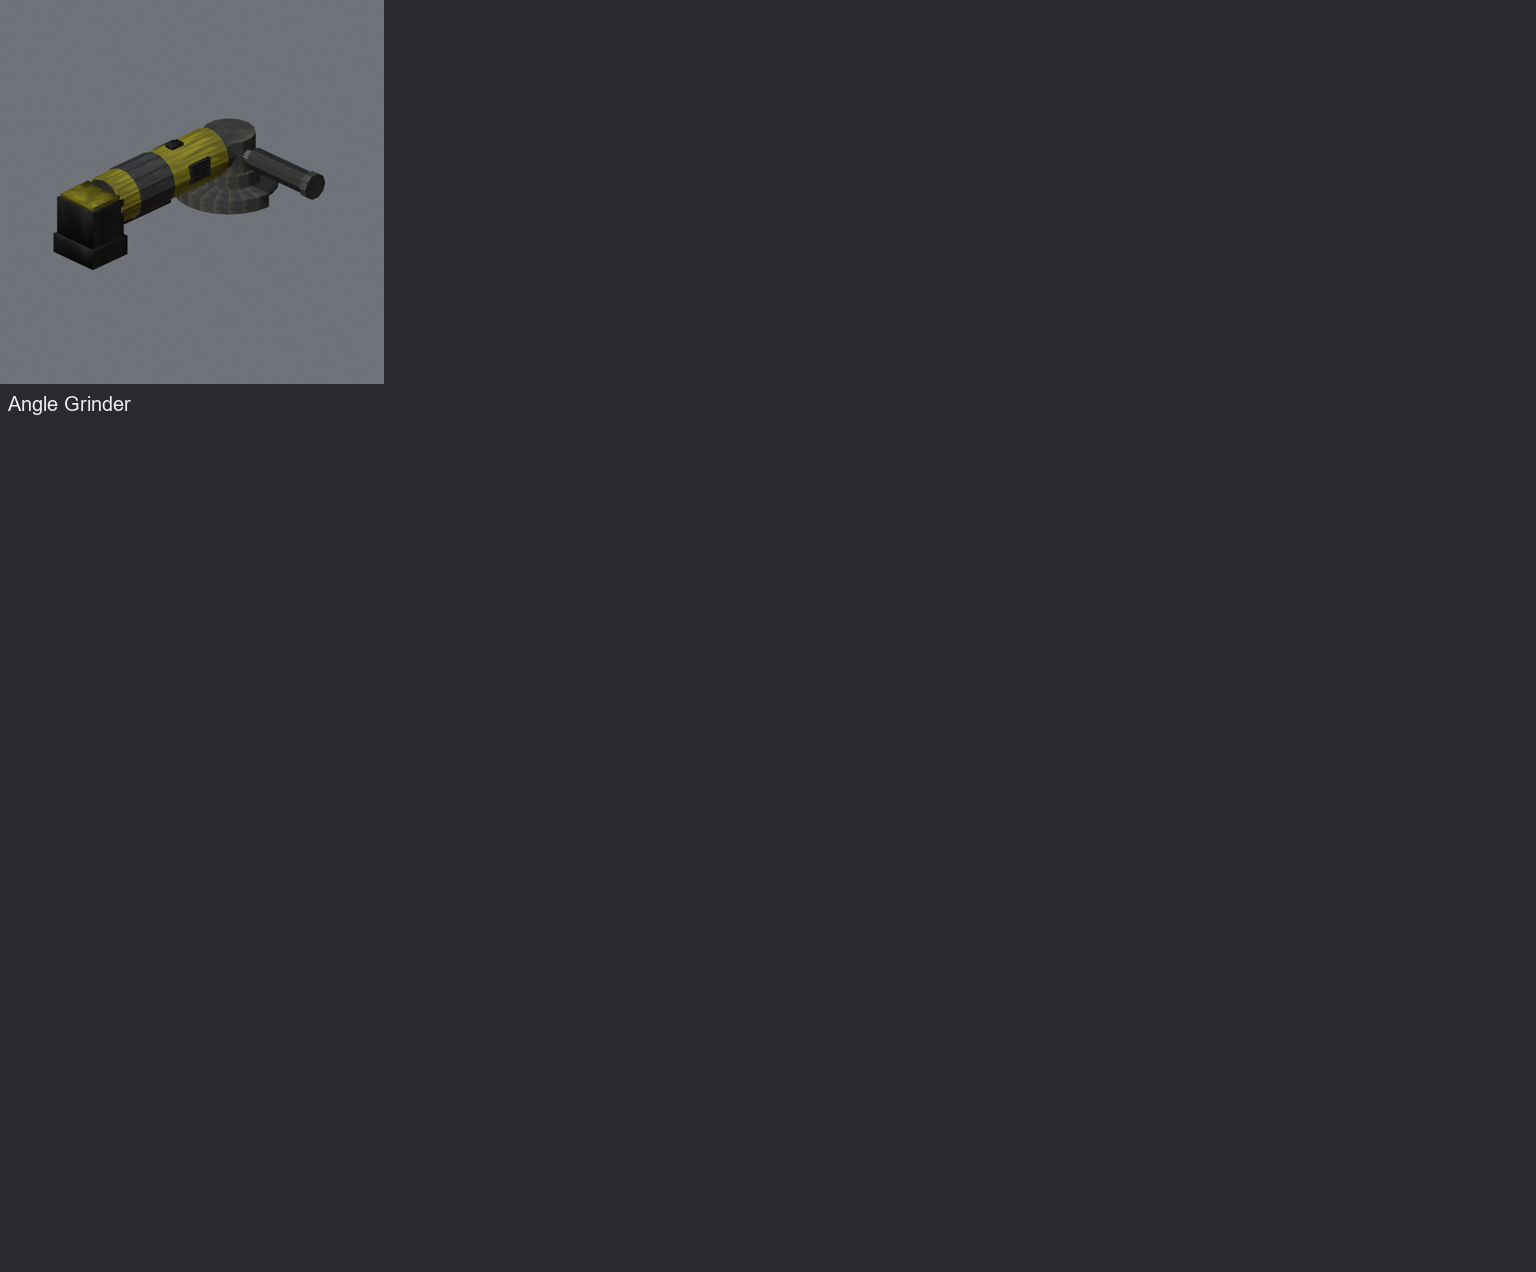
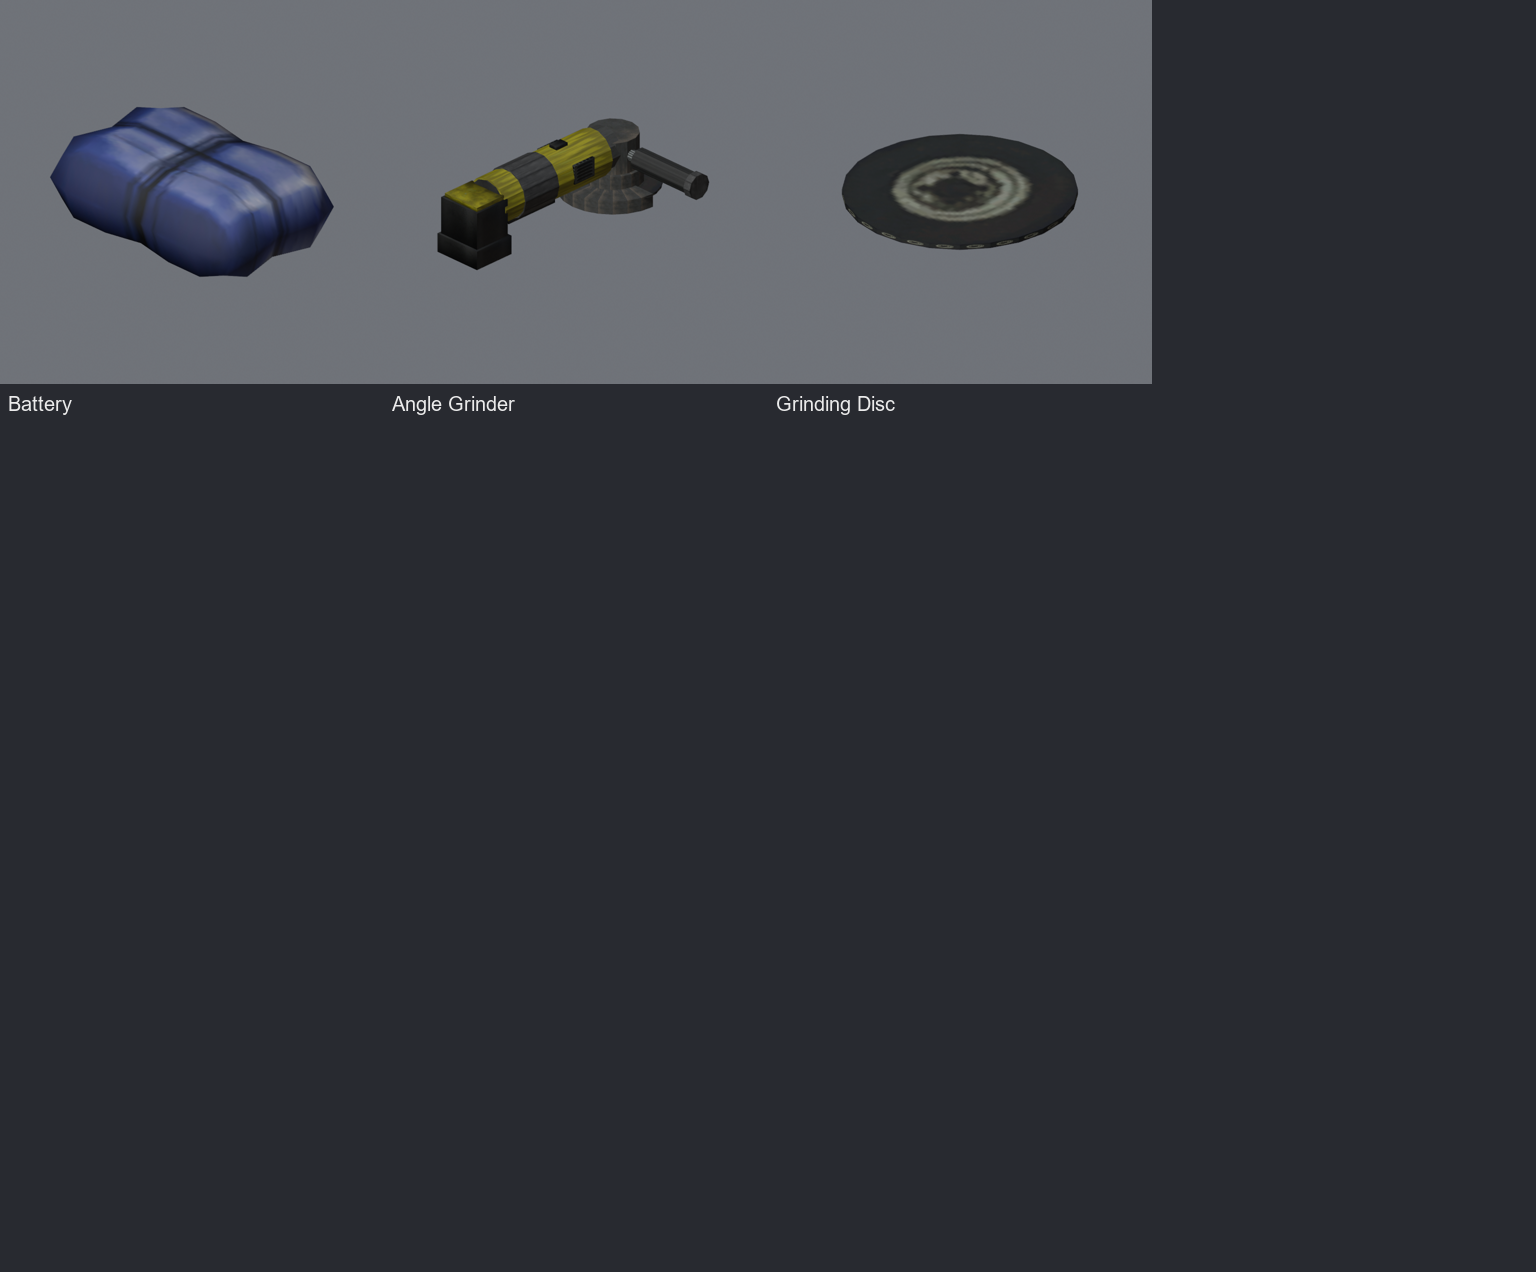
feat(vehicles): the Angle Grinder grinds welded defences off, on Batteries and Grinding Discs
An Angle Grinder in hand at a trailer runs a 20 s pass at the nearest welded panel; each pass burns a Battery charge
(3 per Battery, data {charge}) and wears a Grinding Disc (6 passes, data {wear}; worn out, it is gone), both from the
inventory or the bag. The panel keeps its passes (carmour g), and the sixth cuts it through: it drops to the ground
unwelded with the HP it had. One procedure per pass (carmour_grind); sparks off the disc, "Grind panel off" on F.
The Grinding Disc is a new loot item (prop_models 20207, make_props build_grind_disc) in the industrial tables.

Changed region(s): [[0.25, 0.0, 0.75, 0.3373], [0.0312, 0.0613, 0.2188, 0.2146], [0.0, 0.3066, 0.0938, 0.3373]]

diff --git a/tools/make_props.py b/tools/make_props.py
@@ -30,6 +30,7 @@ then runs itself in Blender (DragonFF) for each prop's dff and col.
                      the disc's rear half and a side handle out of +X; every surface a vanilla texture (GRINDER_TEXTURES,
                      found with gta-scout). Origin at the grip's centre, the housing along Y, the disc forward (+Y) and
                      down (-Z); its lowest point at GRINDER_LOW.
+    grind_disc 20207  a spare grinding disc for the grinder, lying flat: GRINDER_DISC's disc on its own.
 
 Origin (except welder_torch and grinder): the centre of the base (x, y) with z = 0 at the lowest point; the front faces +Y.
 """
@@ -275,6 +276,16 @@ def build_grinder(ctx):
     return [((0.04, 0.0, -0.01), (0.105, 0.165, 0.048))]
 
 
+GRIND_DISC_TEXTURES = [("trailers.txd", "trail_wheel")]
+
+
+def build_grind_disc(ctx):
+    """A spare 115 mm grinding disc lying flat: the grinder's disc (trail_wheel on both faces), 3 mm thick, its centre
+    hole's bright hub up. Origin at the centre of its underside."""
+    ctx["tube"]((0.0, 0.0, 0.0), (0.0, 0.0, 0.003), 0.0575, 24, 0, None, False)
+    return [((0.0, 0.0, 0.0015), (0.0575, 0.0575, 0.0015))]
+
+
 PROPS_TABLE = [
     {"name": "ls_hatch", "id": 20201, "dist": 150, "source": "zombtest1.txd", "textures": ["pave_manhole1"], "build": build_ls_hatch},
     {"name": "welder", "id": 20202, "dist": 100, "source": "dynbarrels.txd", "textures": ["redmetal", "yellowmetal", "alumplat64"], "build": build_welder},
@@ -282,6 +293,7 @@ PROPS_TABLE = [
     {"name": "generator", "id": 20204, "dist": 100, "sources": GEN_TEXTURES, "build": build_generator},
     {"name": "welder_torch", "id": 20205, "dist": 60, "sources": TORCH_TEXTURES, "build": build_welder_torch},
     {"name": "grinder", "id": 20206, "dist": 60, "sources": GRINDER_TEXTURES, "build": build_grinder},
+    {"name": "grind_disc", "id": 20207, "dist": 40, "sources": GRIND_DISC_TEXTURES, "build": build_grind_disc},
 ]
 
 

diff --git a/tools/port_tools.py b/tools/port_tools.py
@@ -1,5 +1,5 @@
 """The port's tools: the welding kit (a Welder, a Generator and a Gas Bottle as fuel; carmour, vehicles/shared/logic/carmour.lua),
-and an Angle Grinder.
+and an Angle Grinder with its Grinding Discs (it cuts welded defences off, vehicles/shared/logic/carmour.lua).
 
 Upstream has none of them. The Welder, the Generator and the Grinder are the port's own models (prop_models 20202, 20204
 and 20206, in vanilla textures). The converters add one item type per row
@@ -39,4 +39,6 @@ TOOLS = [
     dict(uname="GasBottle", name="Gas Bottle", model=20203, size=5, hp=3, loot={"world_civilian": 4.0, "world_survivor": 6.0, "world_industrial": 8.0, "airdrop_industrial": 10.0}, carry=False),
     # an angle grinder for cutting metal: industrial loot spots, work vans and trucks, the industrial airdrop
     dict(uname="Grinder", name="Angle Grinder", model=20206, size=3, hp=3, loot={"world_industrial": 4.0, "vehicle_industrial": 3.0, "airdrop_industrial": 6.0}, carry=False, att=GRINDER_HOLD, bone=6, modelz=0.058),
+    # a spare grinding disc for the Grinder (prop_models 20207): wears one step per grinding pass; data {"wear": passes left}
+    dict(uname="GrindDisc", name="Grinding Disc", model=20207, size=1, hp=1, loot={"world_industrial": 10.0, "vehicle_industrial": 8.0, "airdrop_industrial": 12.0}, carry=False),
 ]

diff --git a/tools/convert/lang.py b/tools/convert/lang.py
@@ -78,7 +78,8 @@ UNSET_TIPS = {
     "WaterMachine": "Put Water Bottles of sea water inside and fuel it with a Petrol Can, it purifies the water",
     "Welder": "Press [F] at a vehicle with a Gas Bottle on you, a defence panel lying near and a fuelled Generator within 8 m to weld the panel on (for now only the towable Airstream takes armour)",
     "Generator": "Hold [F] with a Petrol Can to fuel it, a Welder within 8 m runs on it",
-    "Grinder": "A cordless angle grinder with a cutting disc, found in industrial areas and work vehicles",
+    "Grinder": "Hold [F] at a welded defence to grind it off a vehicle; each pass burns a Battery charge and wears a Grinding Disc, carried in the inventory or bag",
+    "GrindDisc": "A spare disc for the Angle Grinder, worn down a little by every pass of grinding",
     "GasBottle": "A propane bottle with some gas left in it, hold [F] at a trailer's A-frame to mount it, and with empty hands to take it back",
 }
 # Tips the port's own behaviour changed (#156 petrol ammo, #157 tree felling): they replace upstream's wording in every

diff --git a/docs/runbooks/welding-carmour.md b/docs/runbooks/welding-carmour.md
@@ -22,19 +22,25 @@ them so far).
 - **Fortified**: the door has 1 HP alone; each welded panel adds its hitpoints. While a panel is welded on, the trailer
   is damage proof and cannot blow up. Explosions eat the welded panels (the door's first), then the door's own HP, whose
   loss breaks the lock. A Crowbar or Lock Breaker is refused at the door while it is armoured.
+- **Grinding off**: an Angle Grinder in hand, tap F at the trailer: a 20 s pass at the nearest welded panel within reach
+  (walking off cancels it, nothing is used). Each pass burns one charge of a Battery (3 per Battery, item data
+  `{charge}`) and wears a Grinding Disc (6 passes, data `{wear}`; a worn-out disc is gone), both taken from the
+  inventory or the bag. The panel keeps its passes (`g`), so the cut can be finished later or by someone else; the
+  sixth pass (two minutes in all) cuts it through and it drops to the ground, unwelded, with the HP it had.
 
 ## Where it lives
 
 - `vehicles/shared/logic/carmour.lua` (the state, weld, damage, weight), `vehicles/shared/logic/carmour_place.lua` (the
   placement: camera ray onto the shell, frame, support, door rule, oriented-box clash test, attach offsets; the client's
-  ghost and the server's check run the same code), `vehicles/server/carmour.lua` (attach, torch, weld, pry, persistence,
+  ghost and the server's check run the same code), `vehicles/server/carmour.lua` (attach, torch, weld, pry, grind, persistence,
   mass, tow, damage), `vehicles/client/carmour.lua` (panel objects, door swing, attach mode, torches and their lead).
-- `vehicles.carmour` (JSON: `{ base, next, panels = [{ id, u, hp, w, door, c, l, s, sa, sb }] }`) and the procedures
-  `carmour_attach` (held defence used up), `carmour_weld` (one weld of gas), `carmour_detach` (panels back on the ground).
+- `vehicles.carmour` (JSON: `{ base, next, panels = [{ id, u, hp, w, door, c, l, s, sa, sb, g }] }`) and the procedures
+  `carmour_attach` (held defence used up), `carmour_weld` (one weld of gas), `carmour_grind` (one pass: a Battery
+  charge, a disc's wear, the panel's progress), `carmour_detach` (panels back on the ground).
 - Geometry: `python -m tools.carmour_geometry` (Blender + DragonFF) writes `vehicles/shared/data/carmour_geometry.lua`:
   the Airstream's shell (decimated) and door leaf, and every defence's frame and size from its DFF.
-- Items: `tools/port_tools.py`; models in `prop_models` via `tools/make_props.py` (Welder 20202, Generator 20204, torch
-  20205: `WELDER_SOCKET`, `TORCH_STOWED`, `TORCH_LEAD` there match the constants in `vehicles/client/carmour.lua`).
+- Items: `tools/port_tools.py`; models in `prop_models` via `tools/make_props.py` (Welder 20202, Generator 20204, Angle
+  Grinder 20206, Grinding Disc 20207, torch 20205: `WELDER_SOCKET`, `TORCH_STOWED`, `TORCH_LEAD` there match the constants in `vehicles/client/carmour.lua`).
 
 ## Giving another vehicle armour
 
